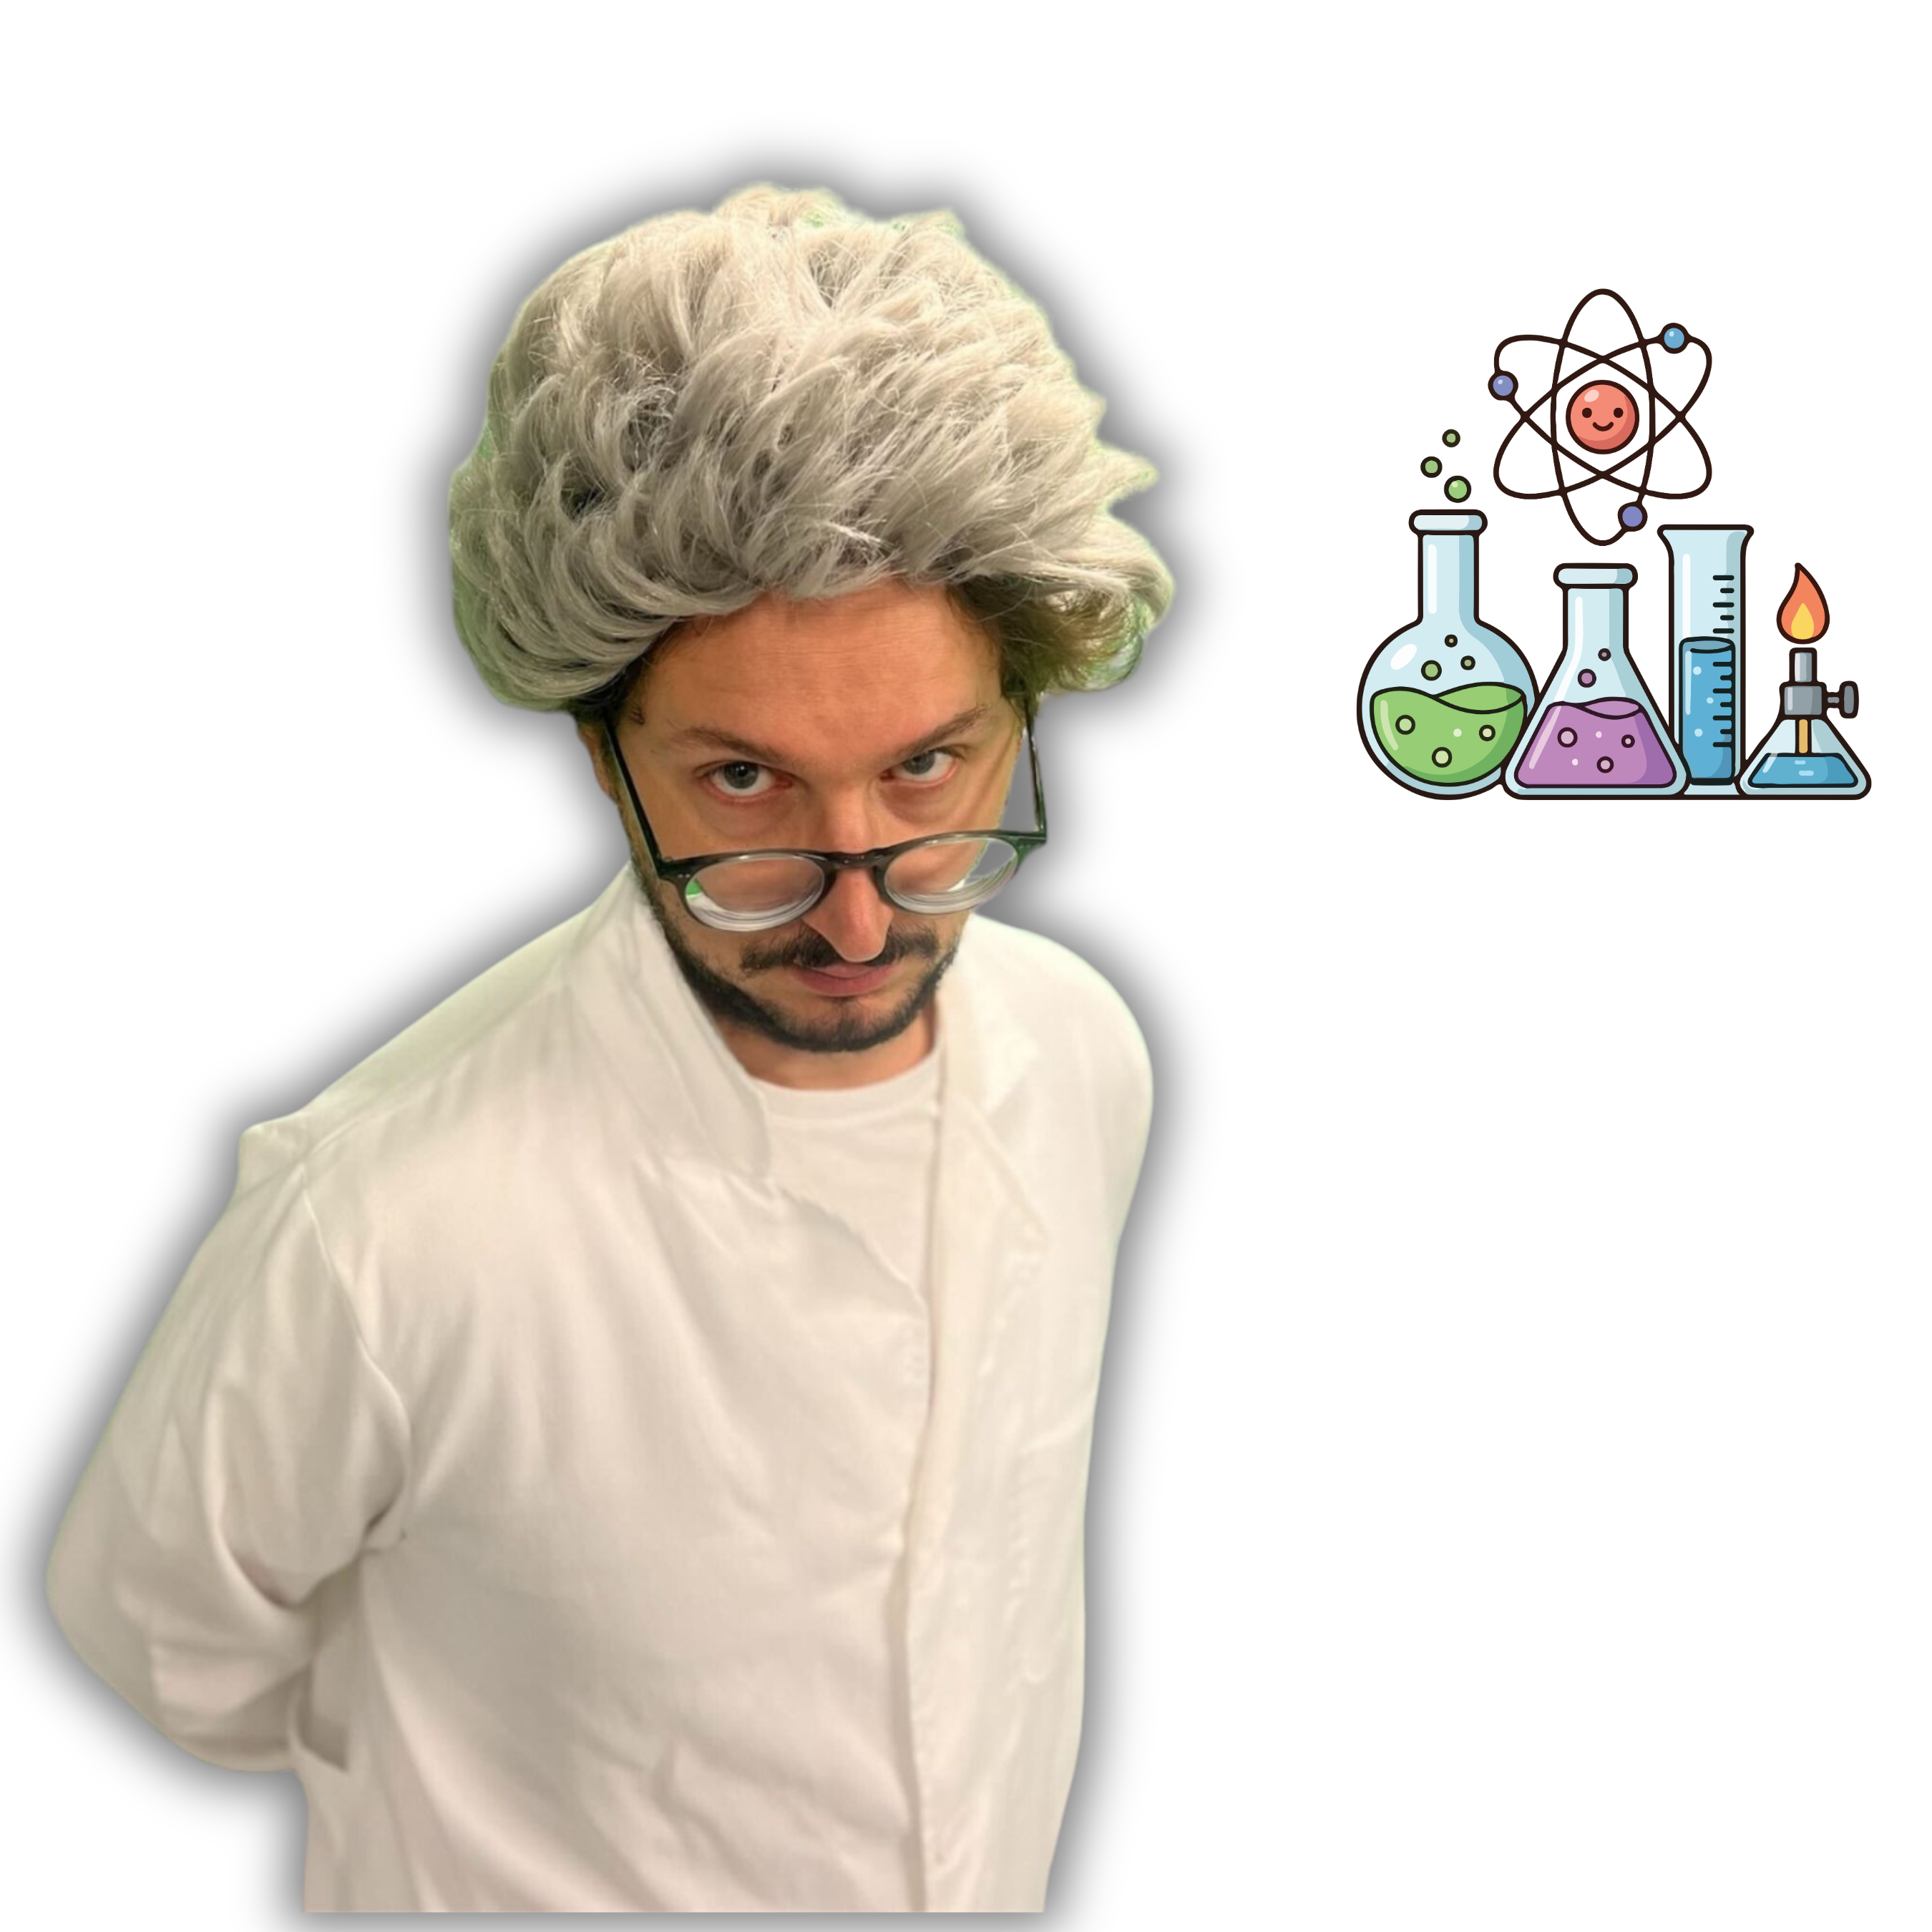
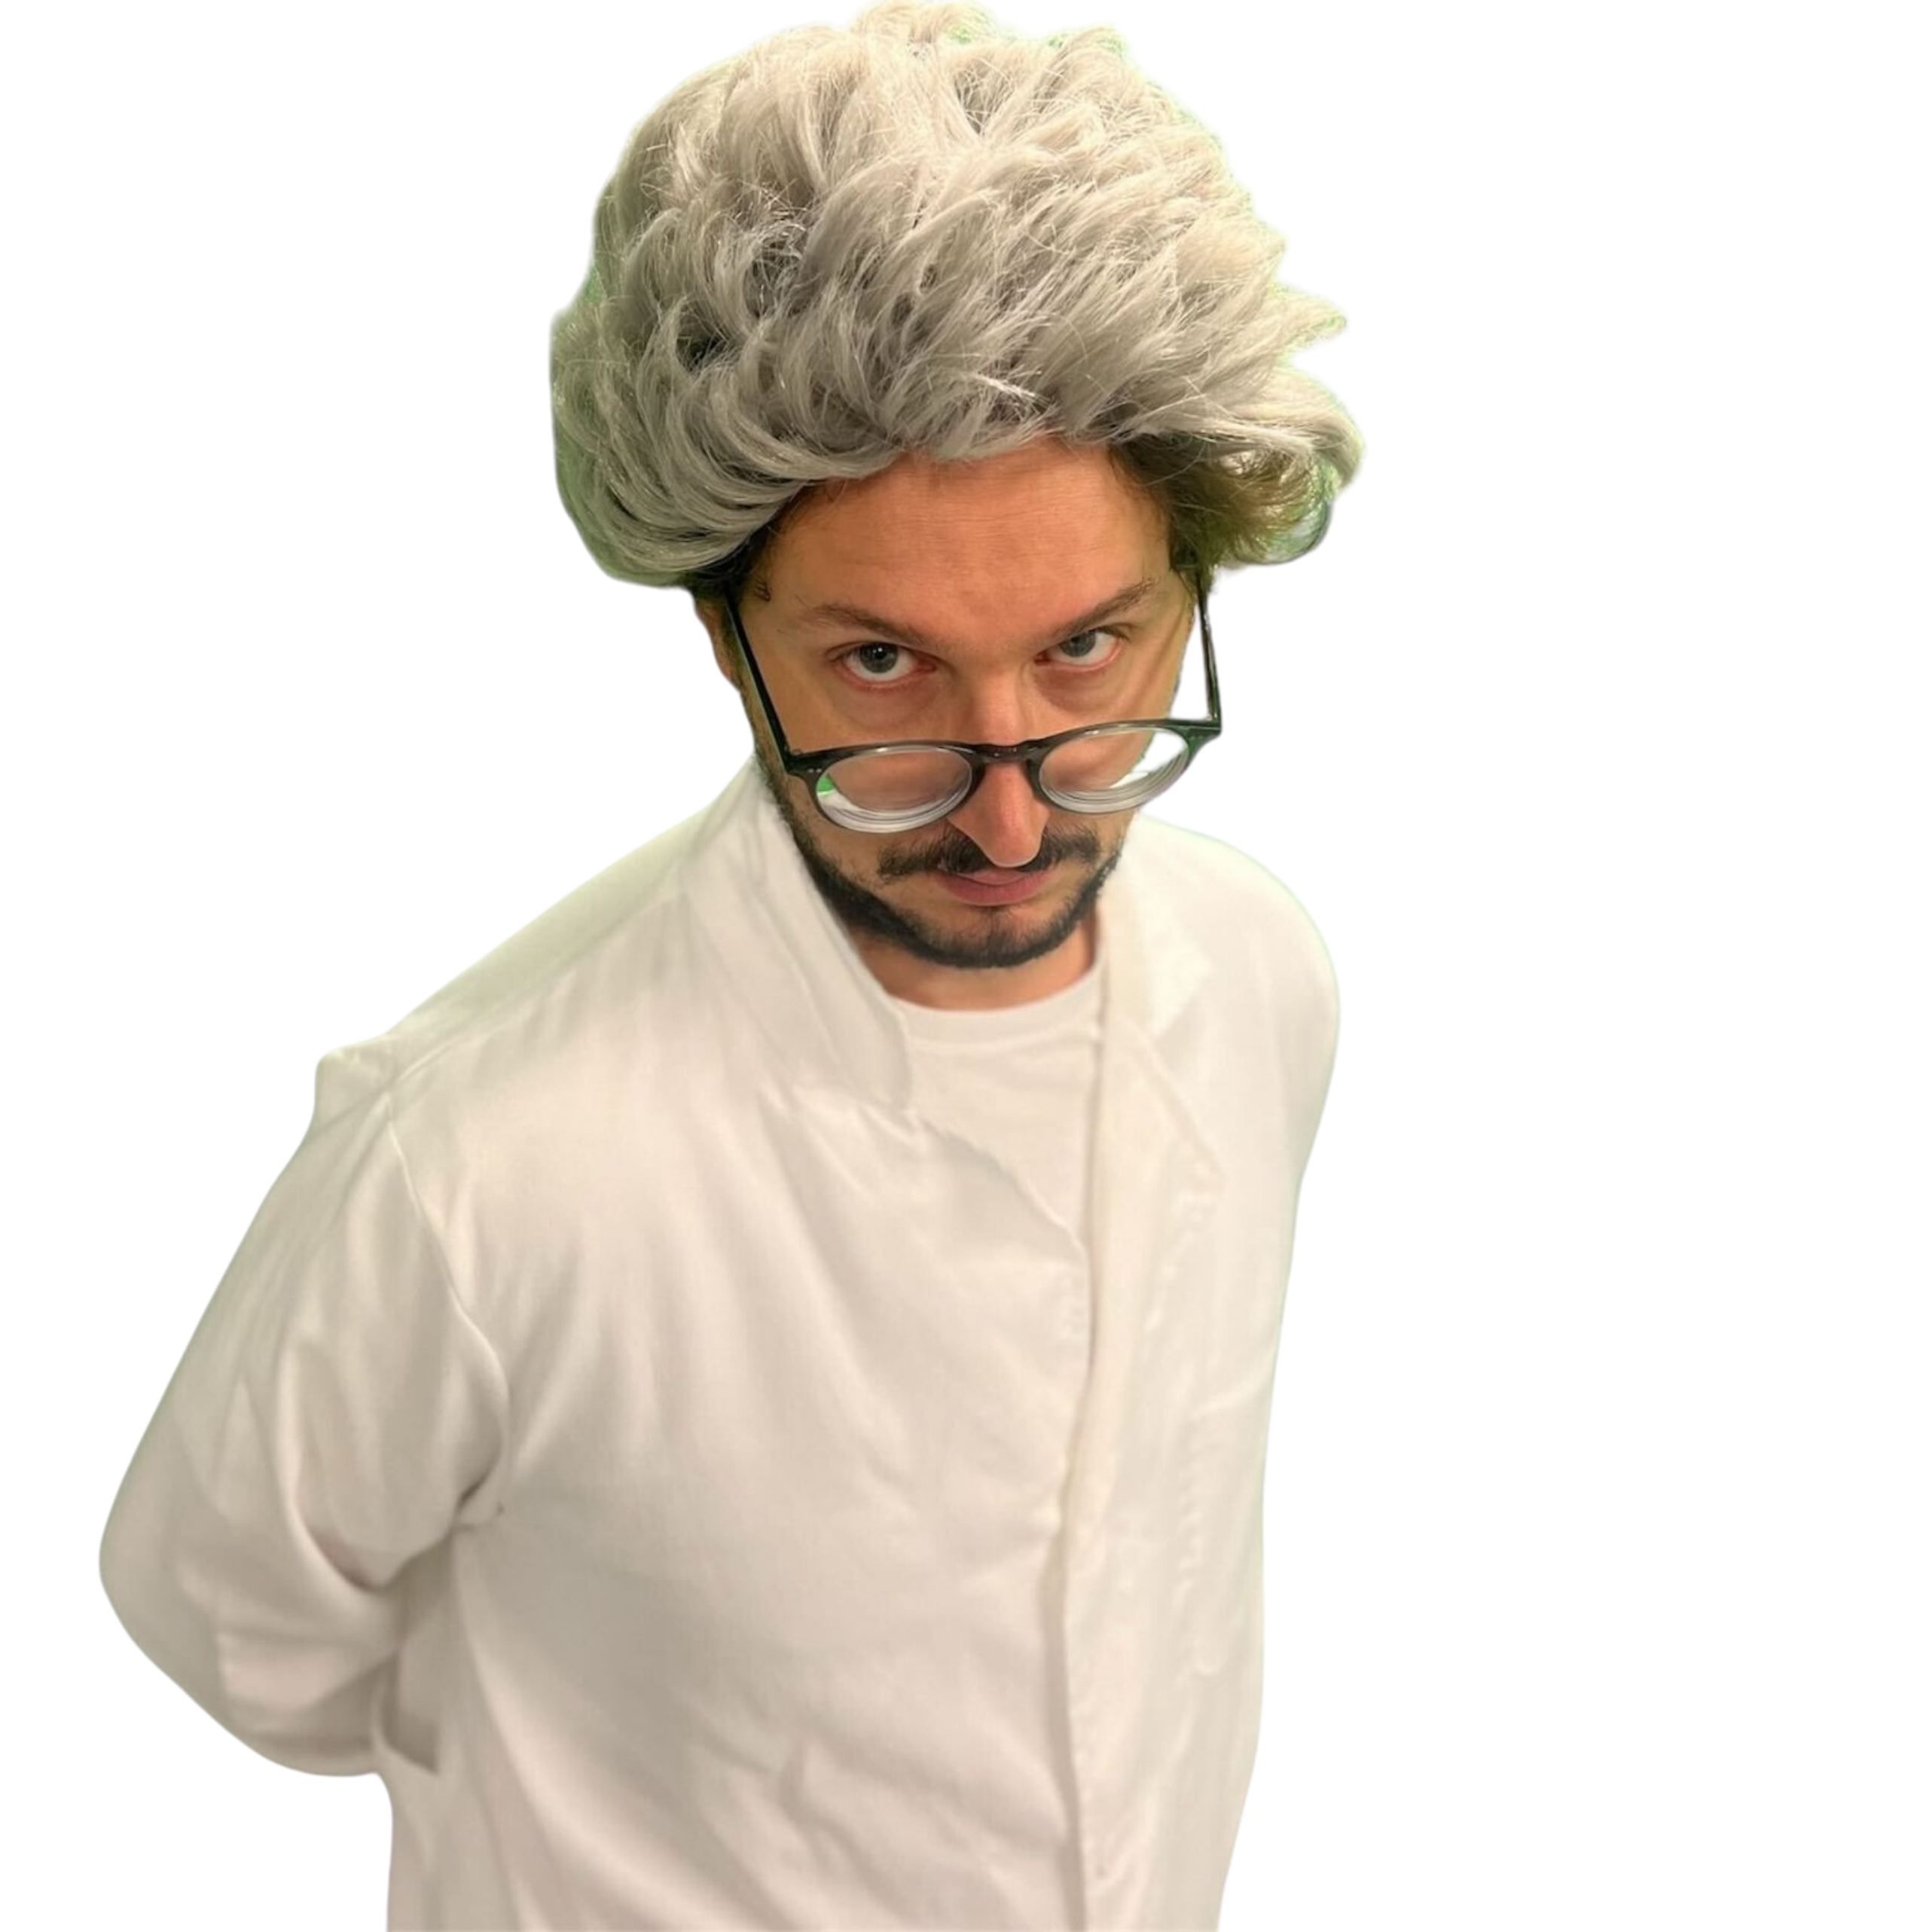
Make Dr. Swann footnote bigger, refresh image

diff --git a/src/app/page.tsx b/src/app/page.tsx
@@ -71,12 +71,14 @@ export default async function Home() {
     </div>
 
     {/* Dr. Swann — fun footnote */}
-    <div className="max-w-7xl mx-auto px-6 pt-8 pb-4 flex items-center gap-4 border-t border-gray-200 mt-4">
-      <Image src="/dr-swann.png" alt="Dr. Swann" width={64} height={72} className="w-12 flex-shrink-0" />
-      <p className="text-gray-400 text-sm italic">
-        &ldquo;If you can&apos;t say anything peer-reviewed about your work, then don&apos;t say anything at all!&rdquo;
-        <span className="text-[#009AAB] not-italic font-medium ml-1">— Dr. Swann</span>
-      </p>
+    <div className="max-w-7xl mx-auto px-6 pt-10 pb-6 flex items-end gap-6 border-t border-gray-200 mt-4">
+      <Image src="/dr-swann.png" alt="Dr. Swann" width={120} height={140} className="w-24 flex-shrink-0 self-end" />
+      <div className="pb-2">
+        <p className="text-gray-500 text-base italic leading-relaxed">
+          &ldquo;If you can&apos;t say anything peer-reviewed about your work, then don&apos;t say anything at all!&rdquo;
+        </p>
+        <p className="text-[#009AAB] font-semibold text-sm mt-1">— Dr. Swann</p>
+      </div>
     </div>
 
     </TranslationWrapper>